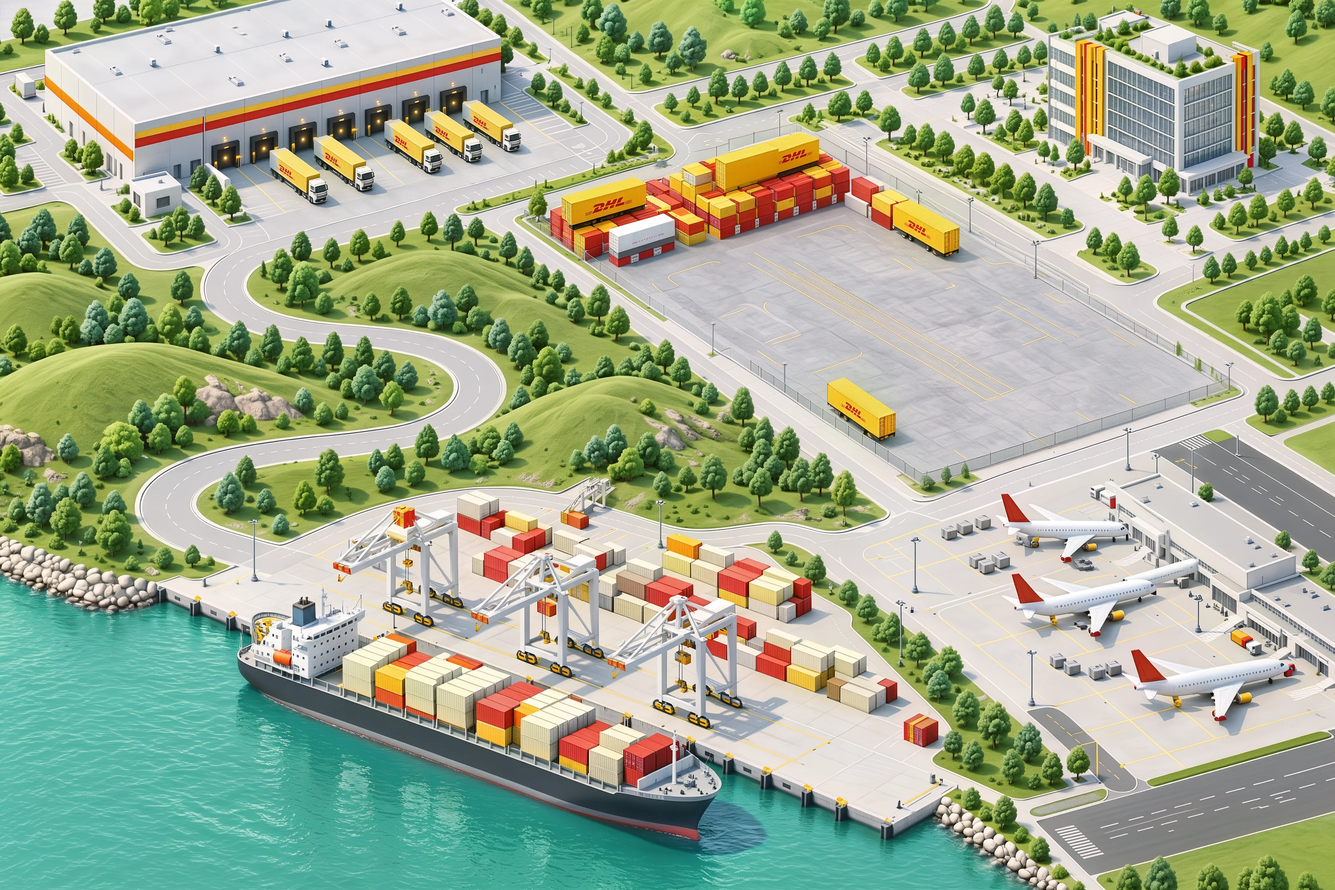
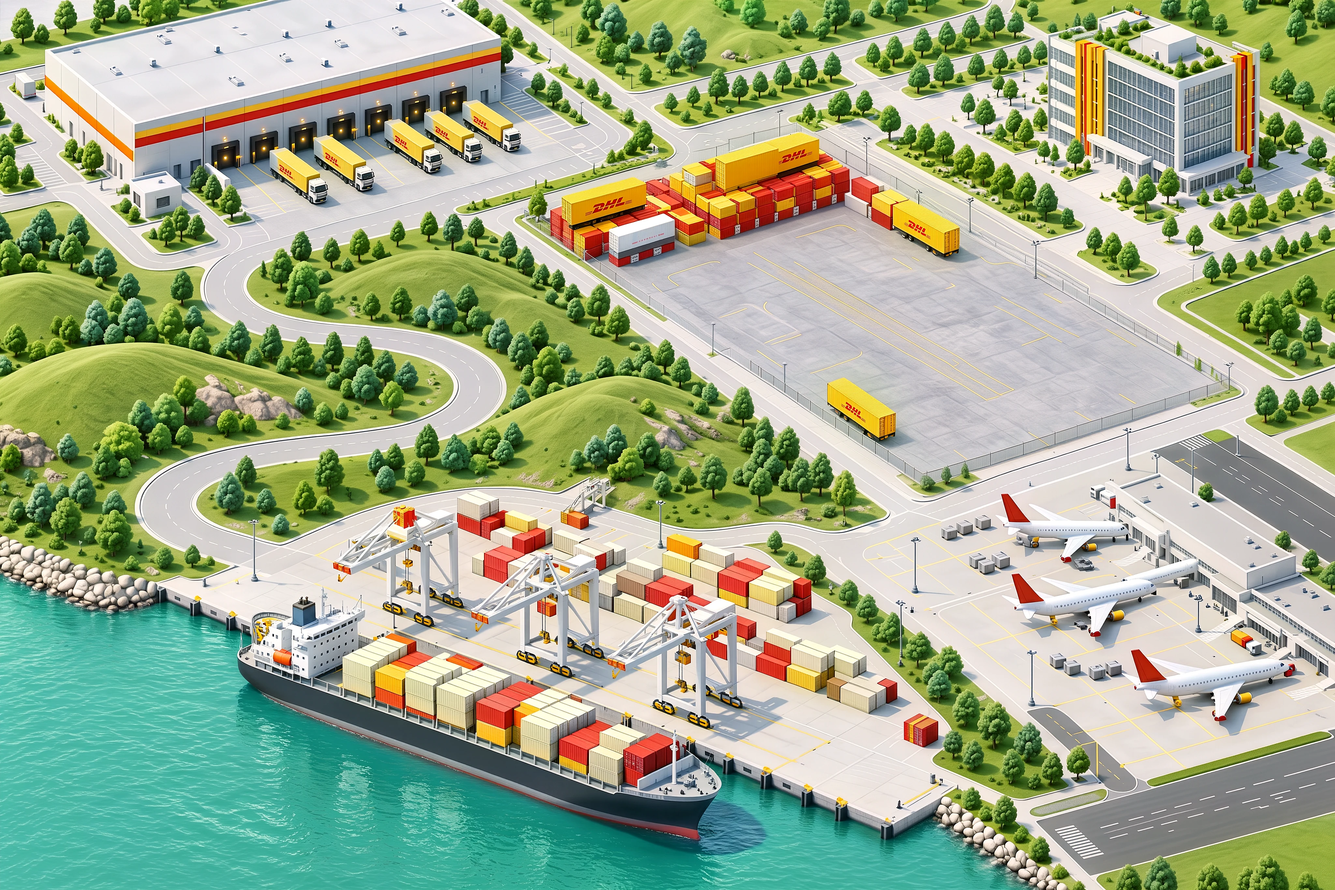
main-v3: 지도 배경 화질 개선 (원본 9984px 축소 + 선명도·대비 보정)
Claude-Session: https://claude.ai/code/session_01GxvcjT2t1EtCzaZ77GCfKE

diff --git a/main-v3/index.html b/main-v3/index.html
@@ -998,7 +998,7 @@ footer .wordmark{font:900 italic clamp(50px,14.5vw,250px)/.78 var(--sans);letter
 <!-- 3~4. 히어로 + 스크롤 스토리 -->
 <section id="story">
   <div class="pin">
-    <div id="map"><img src="img/v3/map5.webp" alt="DHL 물류 네트워크 지도">
+    <div id="map"><img src="img/v3/map5.webp?v=2" alt="DHL 물류 네트워크 지도">
       <div id="veh" aria-hidden="true"><div class="wake" id="vWake"></div><img class="vh" id="vShip" src="img/v3/ship_ul2.webp" alt=""><img class="vh" id="vCont" src="img/v3/rs_cont.webp" alt=""><img class="vh" id="vRS" src="img/v3/rs_empty.webp" alt=""><img class="vh" id="vTAt" alt=""><img class="vh" id="vTAc" alt=""><img class="vh" id="vTCt" alt=""><img class="vh" id="vTCc" alt=""><img class="vh" id="vTBt" alt=""><img class="vh" id="vTBc" alt=""><img class="vh" id="vPS" src="img/v3/plane_shadow.webp" alt=""><img class="vh" id="vPB" src="img/v3/plane_ground.webp" alt=""></div>
     </div>
     <div id="clouds"></div>
